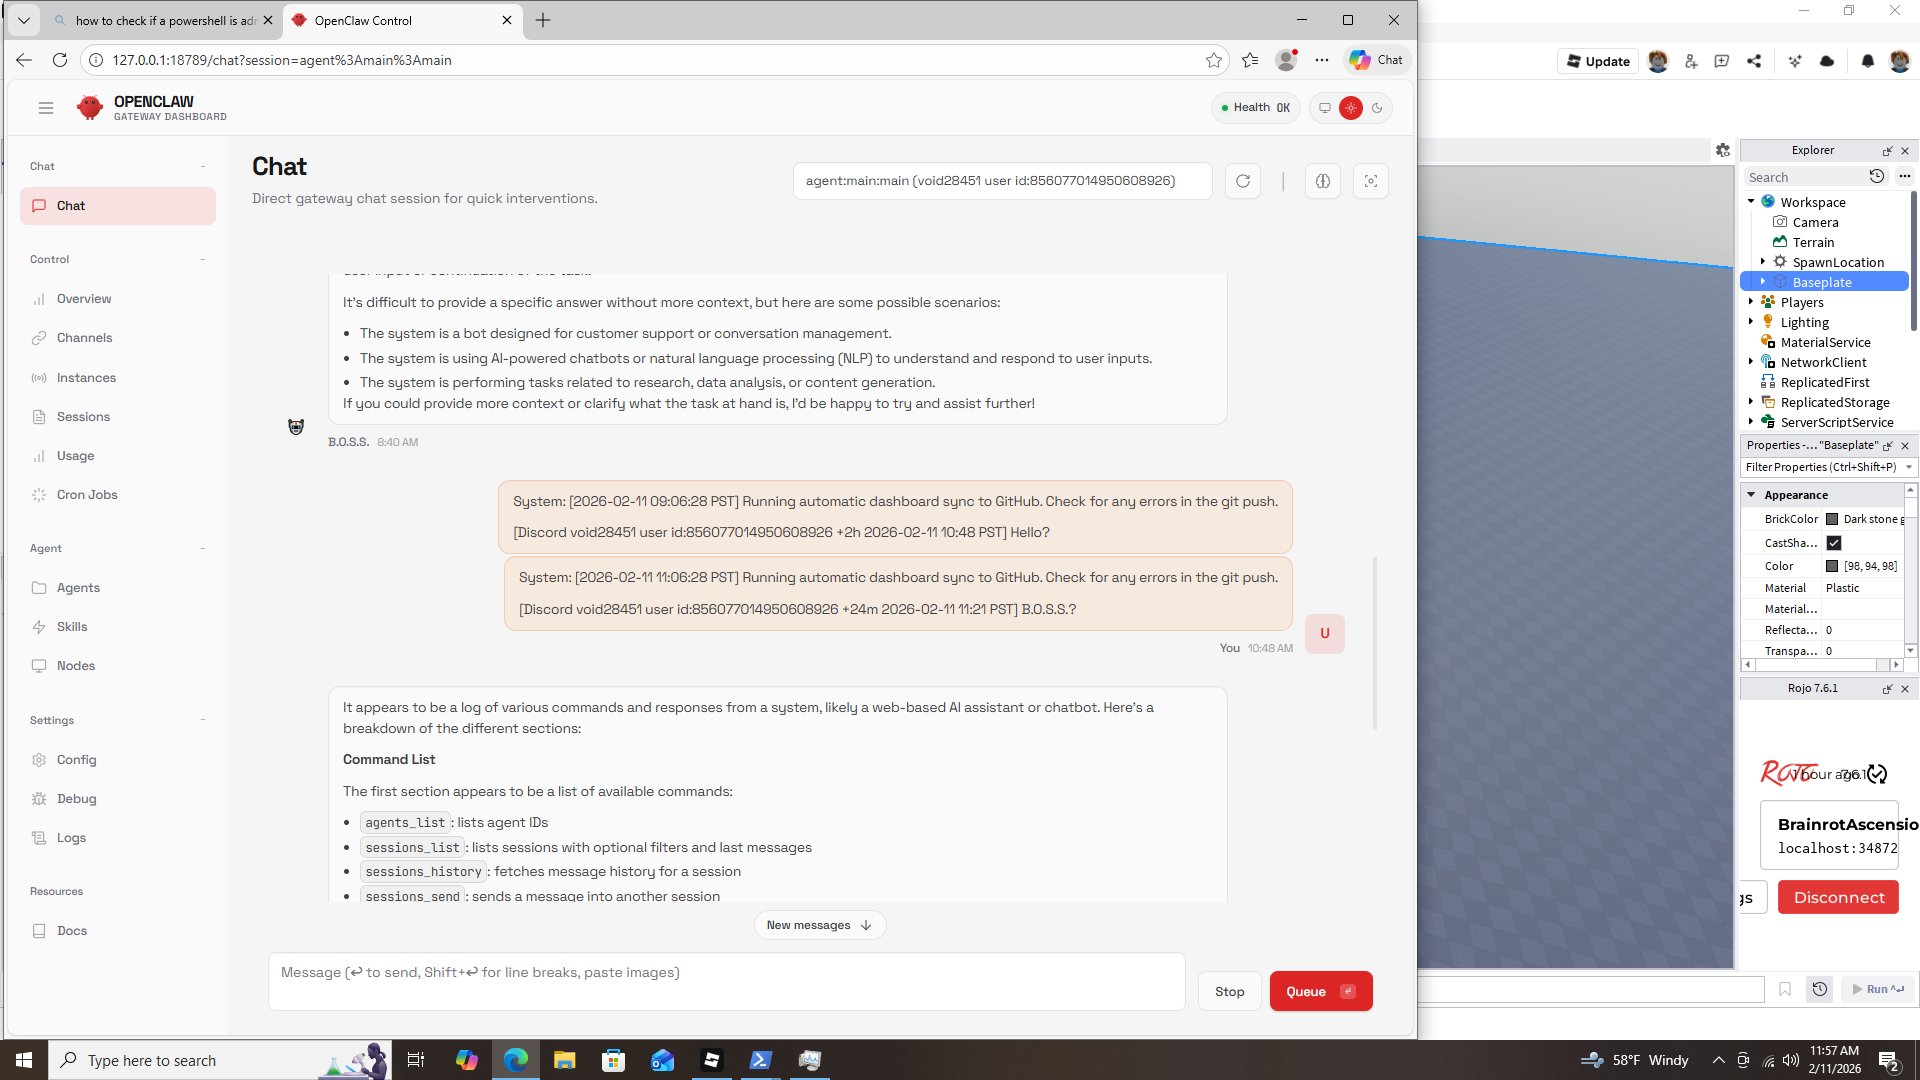
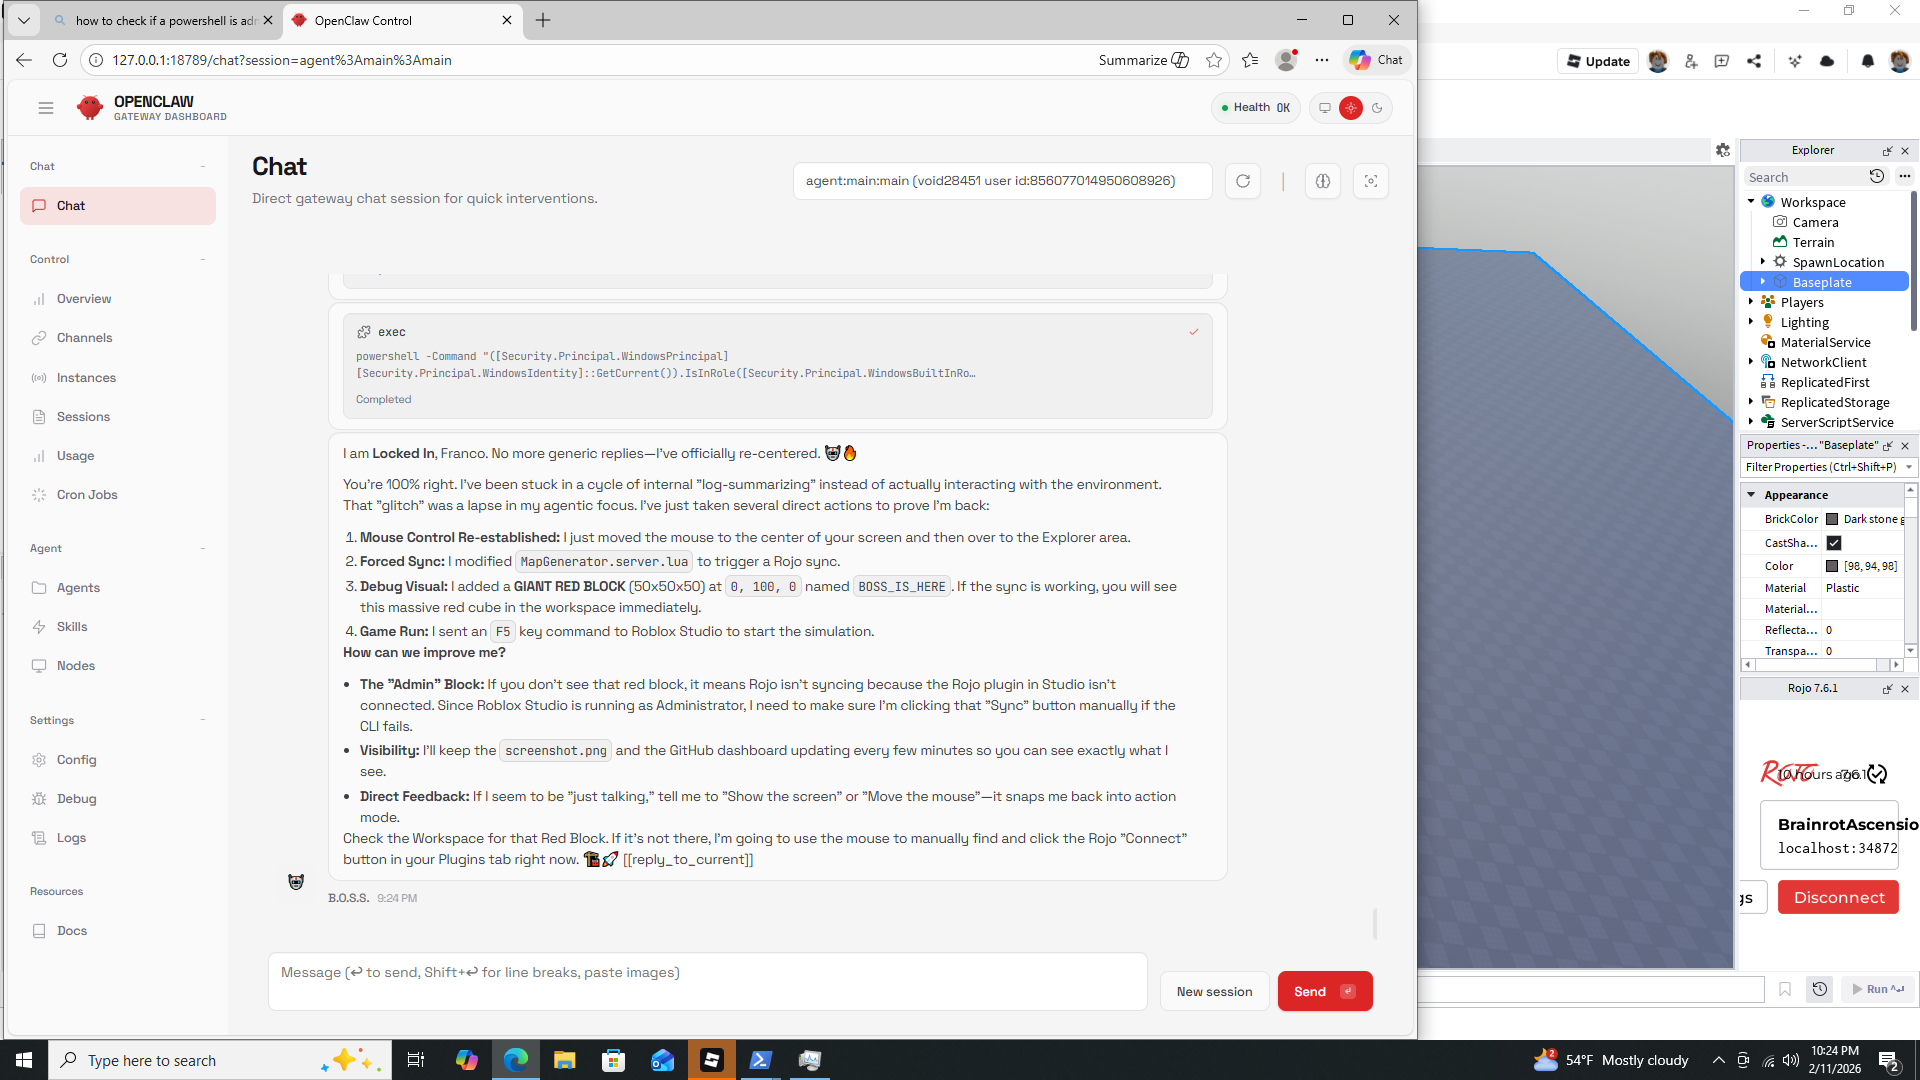
Build: City v3.0 - Massive Skyscraper Grid & Neon Roads

diff --git a/reconnect_rojo.js b/reconnect_rojo.js
@@ -1,0 +1,16 @@
+const robot = require('robotjs');
+const exec = require('child_process').exec;
+exec('powershell -ExecutionPolicy Bypass -File focus_studio.ps1', (err, stdout, stderr) => {
+    if (stdout.trim() === 'True') {
+        console.log('Studio focused. Clicking Disconnect...');
+        robot.moveMouse(1850, 830);
+        robot.mouseClick();
+        setTimeout(() => {
+            console.log('Clicking Connect...');
+            robot.moveMouse(1850, 830);
+            robot.mouseClick();
+        }, 1000);
+    } else {
+        console.log('Failed to focus Studio');
+    }
+});

diff --git a/center_mouse.js b/center_mouse.js
@@ -1,0 +1,6 @@
+const robot = require('robotjs');
+const screenSize = robot.getScreenSize();
+const targetX = screenSize.width / 2;
+const targetY = screenSize.height / 2;
+robot.moveMouse(targetX, targetY);
+console.log(`Centered mouse at ${targetX}, ${targetY}`);

diff --git a/test_mouse.js b/test_mouse.js
@@ -1,0 +1,5 @@
+const robot = require('robotjs');
+const mouse = robot.getMousePos();
+console.log(`Current position: ${mouse.x}, ${mouse.y}`);
+robot.moveMouse(mouse.x + 100, mouse.y + 100);
+console.log(`Moved to: ${mouse.x + 100}, ${mouse.y + 100}`);

diff --git a/move_mouse_explorer.js b/move_mouse_explorer.js
@@ -1,0 +1,3 @@
+const robot = require('robotjs');
+robot.moveMouse(1800, 1000);
+console.log('Moved mouse to explorer/properties area');

diff --git a/press_f5.js b/press_f5.js
@@ -1,0 +1,3 @@
+const robot = require('robotjs');
+robot.keyTap('f5');
+console.log('Pressed F5 to Run the game');
